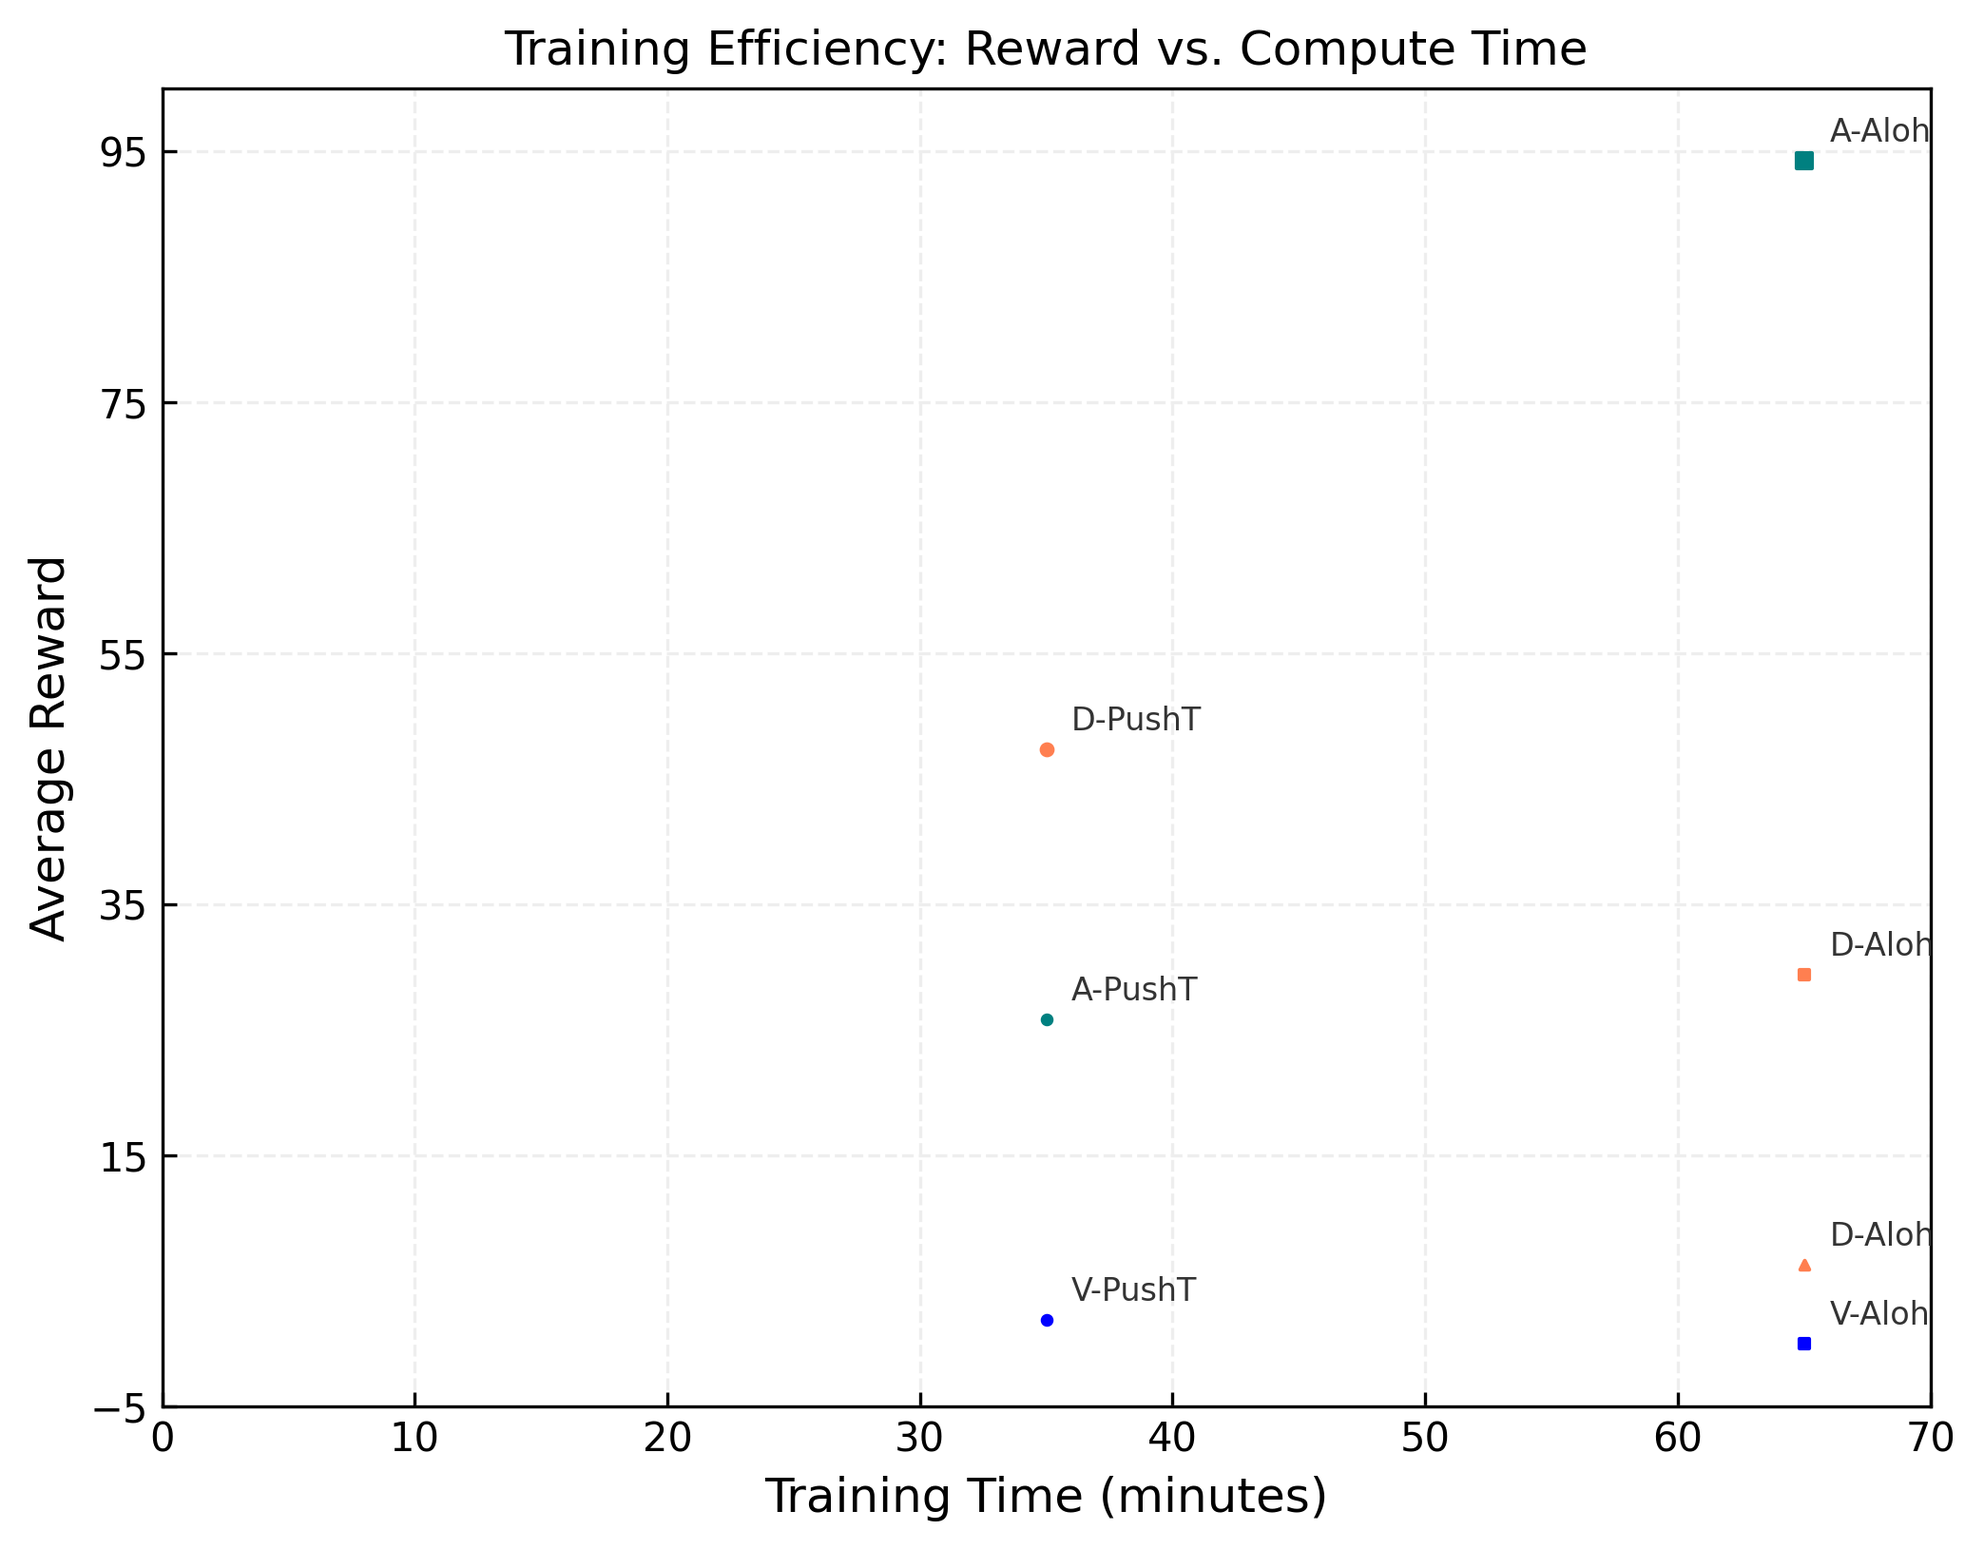
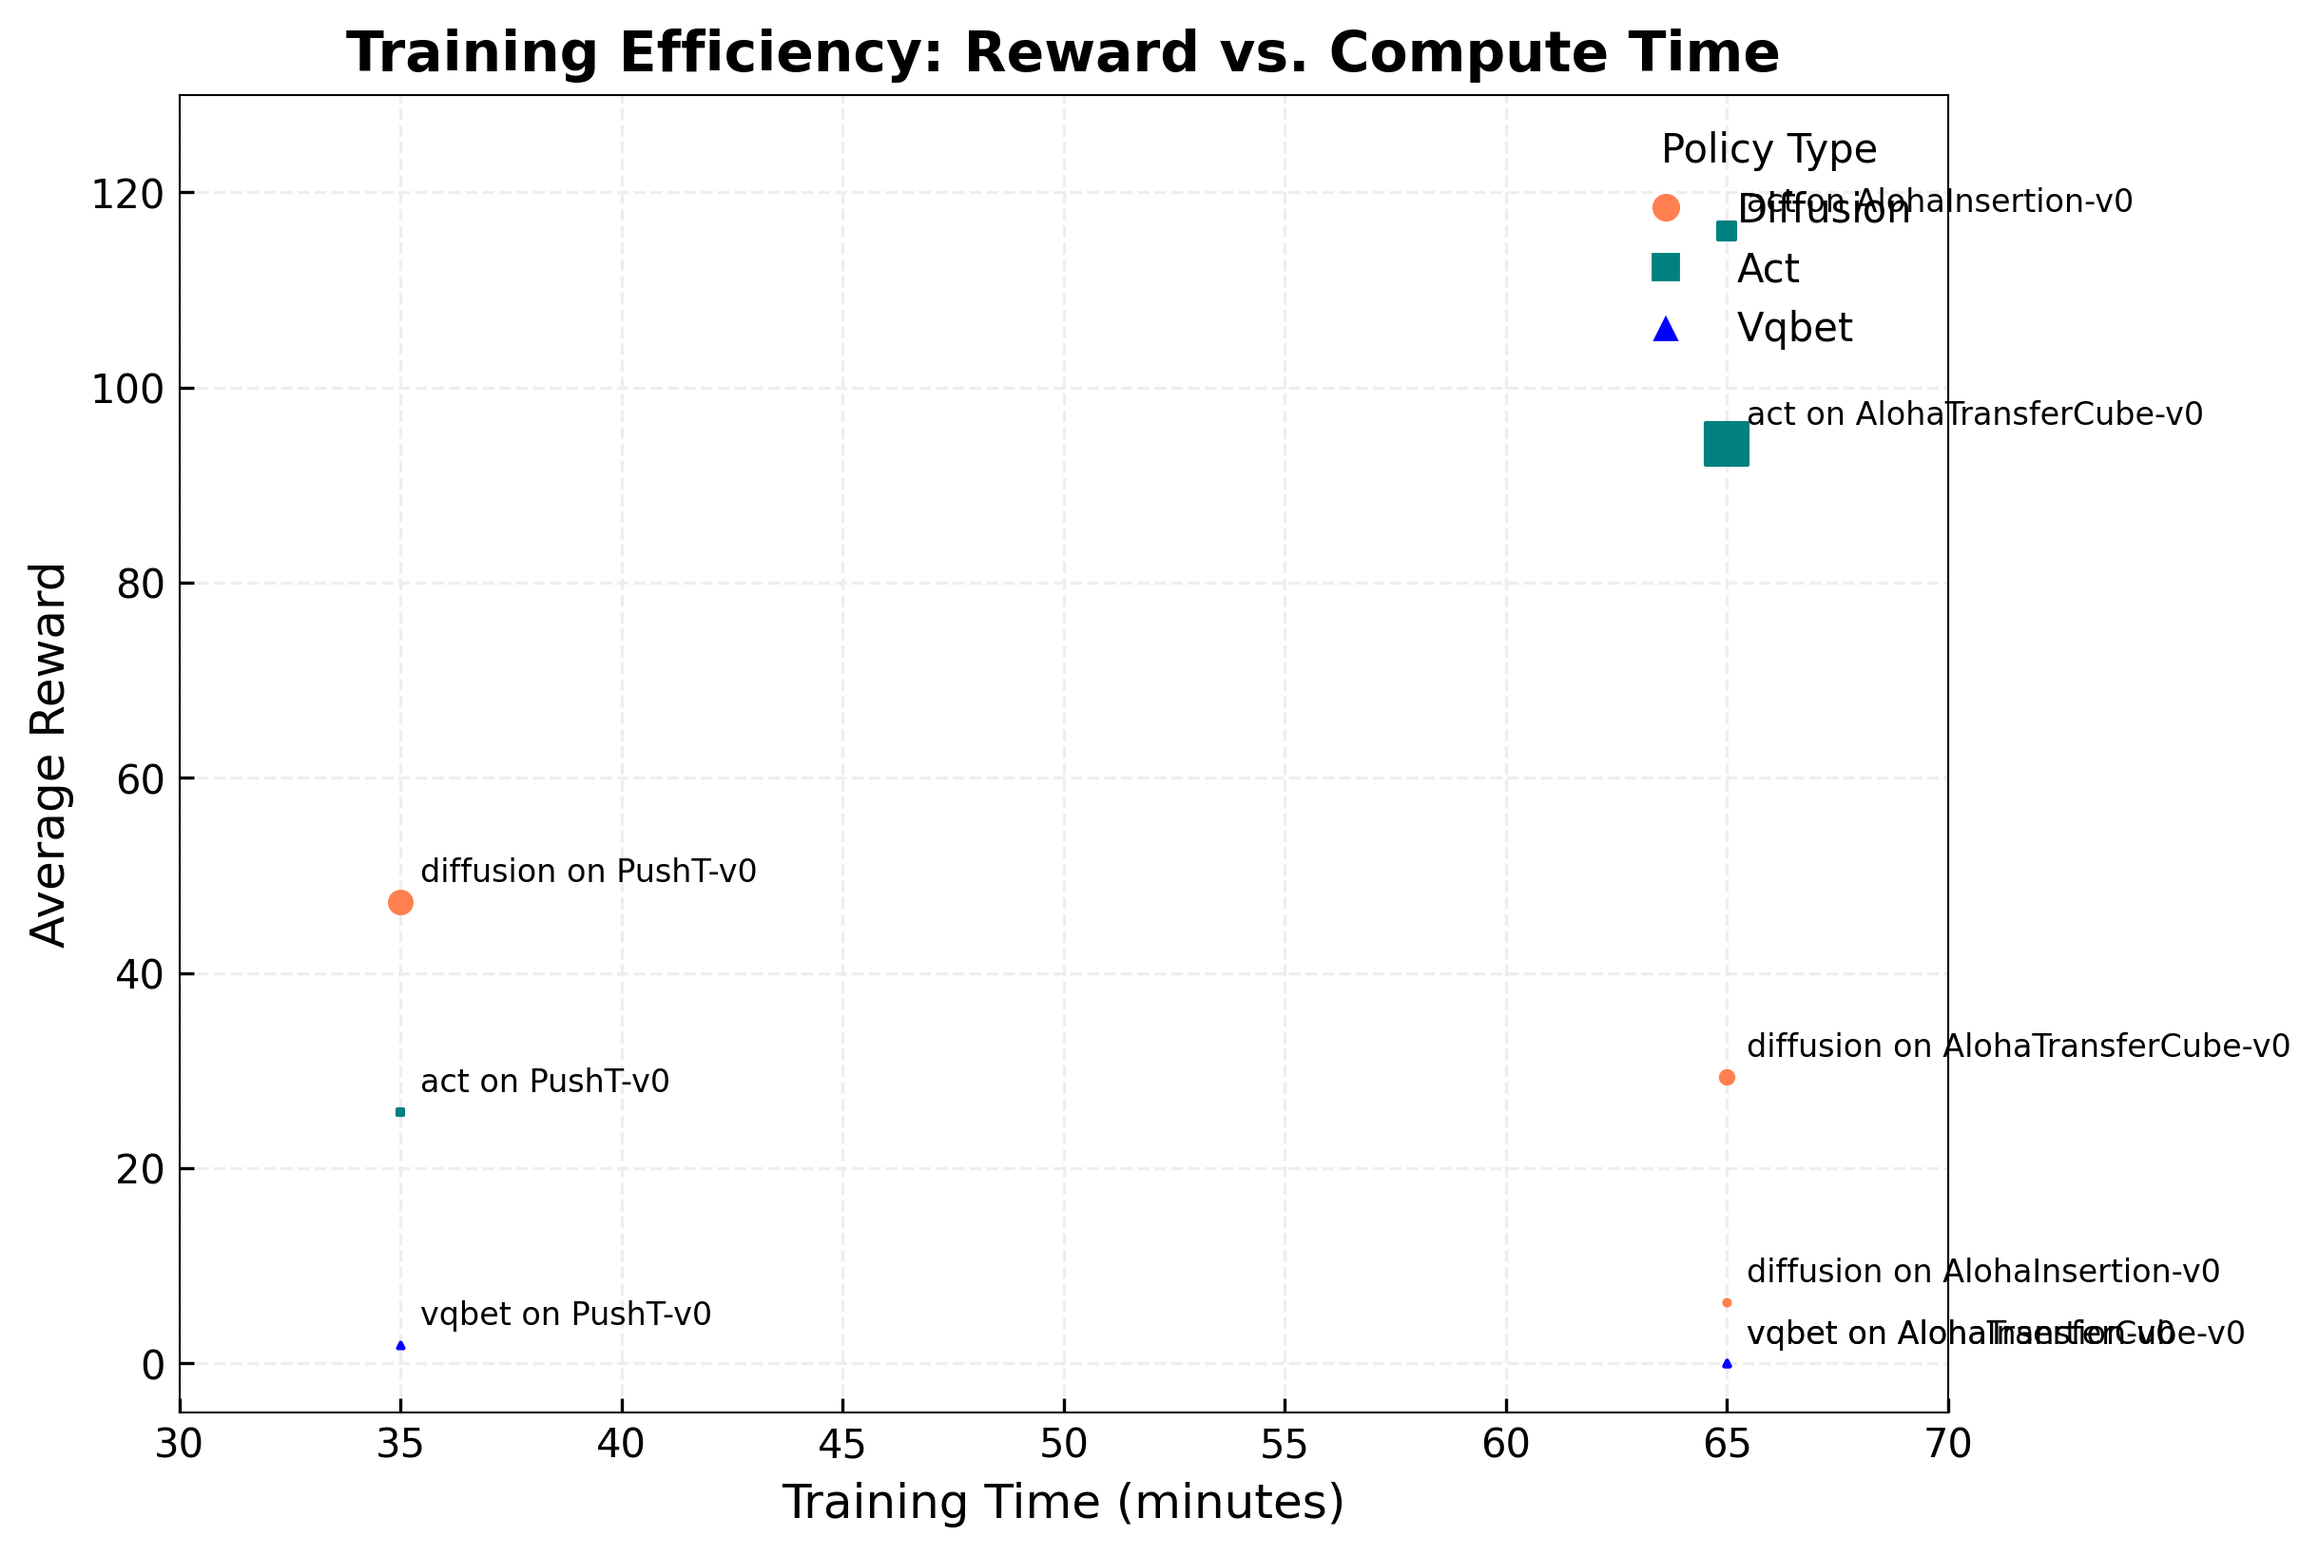
results: 10 experiments — auto-sync

diff --git a/RESULTS.md b/RESULTS.md
@@ -1,18 +1,18 @@
 # AutoResearch-MRL: Live Results
 
-> Last updated: **2026-03-15 17:31 UTC** | auto-generated every 5 min
+> Last updated: **2026-03-15 17:38 UTC** | auto-generated every 5 min
 
 ## Summary
 
 | Metric | Value |
 |--------|-------|
-| **Current Phase** | Phase 2: Optimization (baselines complete) |
-| Total experiments | 9 |
+| **Current Phase** | Phase 2: Optimization |
+| Total experiments | 10 |
 | Baselines complete | 9 / 9 |
-| Improvements kept | 0 |
+| Improvements kept | 1 |
 | Discarded | 0 |
 | Crashes | 0 |
-| Total GPU time | 496 min (8.3 hrs) |
+| Total GPU time | 531 min (8.8 hrs) |
 
 ## Policy Comparison
 
@@ -36,6 +36,22 @@
 
 ![Training Efficiency](reports/figures/training_efficiency.png)
 
+## Optimization Results
+
+![Optimization Gains](reports/figures/optimization_gains.png)
+
+| Policy | Task | Best Success Rate | Improvement | Description |
+|--------|------|:-----------------:|:-----------:|-------------|
+| act | AlohaInsertion-v0 | 4.0% | baseline | default act on AlohaInsertion-v0 |
+| act | AlohaTransferCube-v0 | 22.0% | baseline | default act on AlohaTransferCube-v0 |
+| act | PushT-v0 | 0.0% | baseline | default act on PushT-v0 |
+| diffusion | AlohaInsertion-v0 | 0.0% | baseline | default diffusion on AlohaInsertion-v0 |
+| diffusion | AlohaTransferCube-v0 | 2.0% | baseline | default diffusion on AlohaTransferCube-v0 |
+| diffusion | PushT-v0 | 10.0% | +4.0pp | lr=5e-5 |
+| vqbet | AlohaInsertion-v0 | 0.0% | baseline | default vqbet on AlohaInsertion-v0 |
+| vqbet | AlohaTransferCube-v0 | 0.0% | baseline | default vqbet on AlohaTransferCube-v0 |
+| vqbet | PushT-v0 | 0.0% | baseline | default vqbet on PushT-v0 |
+
 ## Experiment Progress
 
 ![Experiment Progress](reports/figures/experiment_progress.png)
@@ -56,6 +72,7 @@
 | 7 | `4083c68` | diffusion | AlohaInsertion-v0 | 0.0% | 6.3 | baseline | default diffusion on AlohaInsertion-v0 |
 | 8 | `f0cd1ec` | act | AlohaInsertion-v0 | 4.0% | 116.0 | baseline | default act on AlohaInsertion-v0 |
 | 9 | `bf9ea9a` | vqbet | AlohaInsertion-v0 | 0.0% | 0.0 | baseline | default vqbet on AlohaInsertion-v0 |
+| 10 | `02f0c05` | diffusion | PushT-v0 | 10.0% | 39.5 | **KEEP** | lr=5e-5 |
 
 </details>
 
